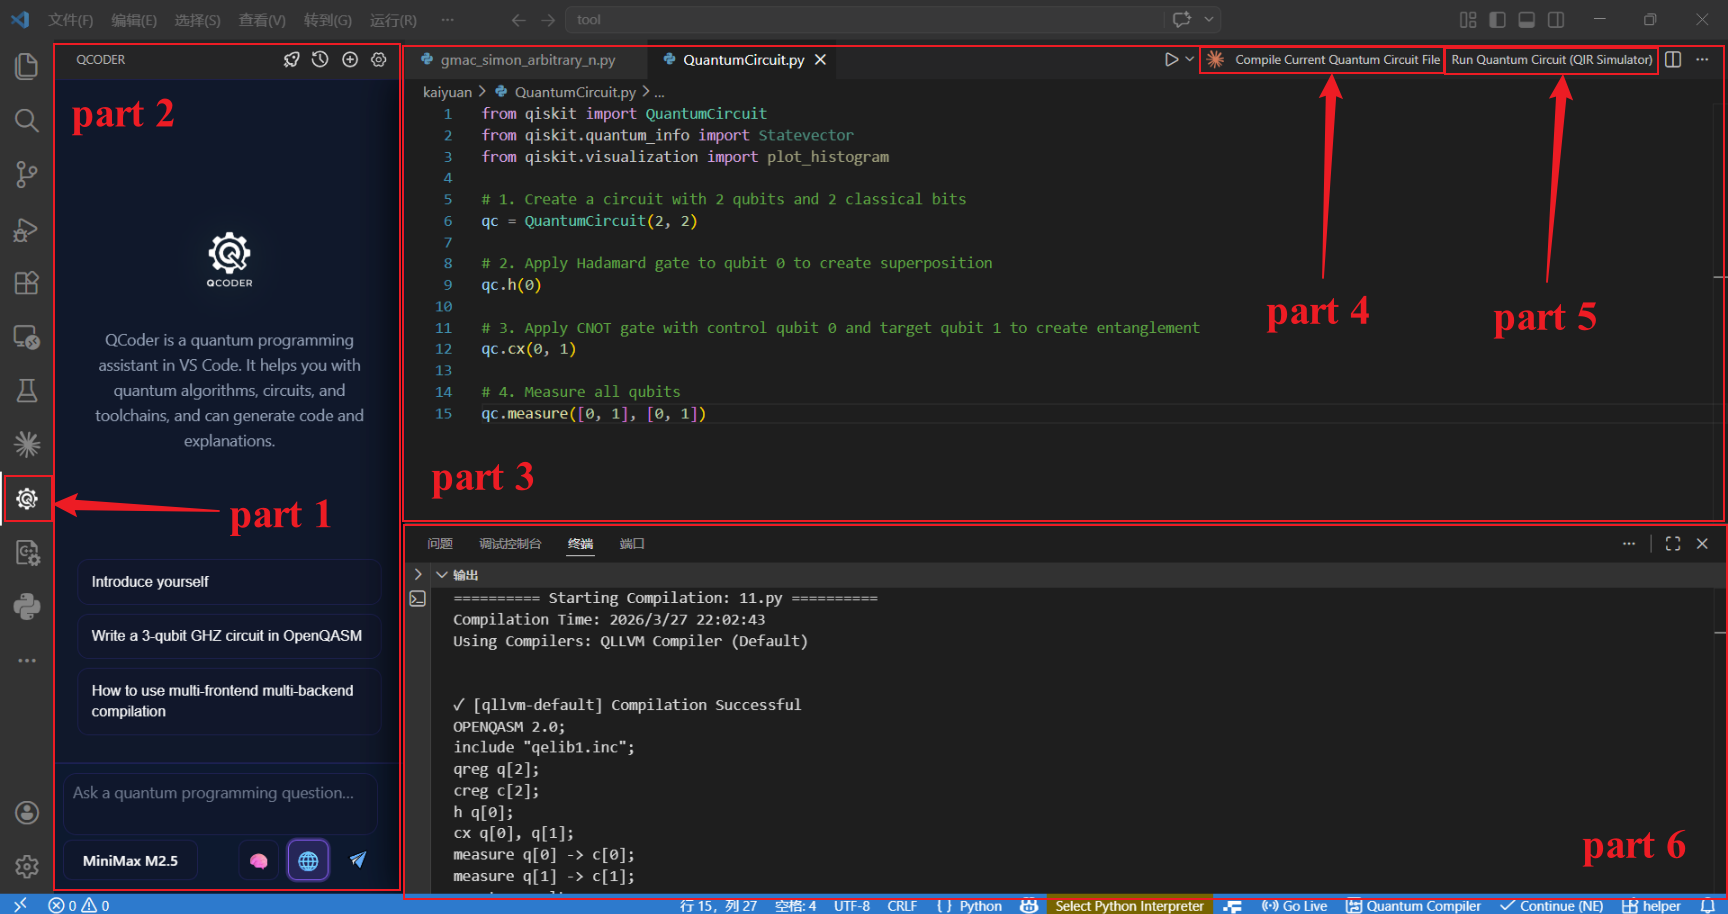
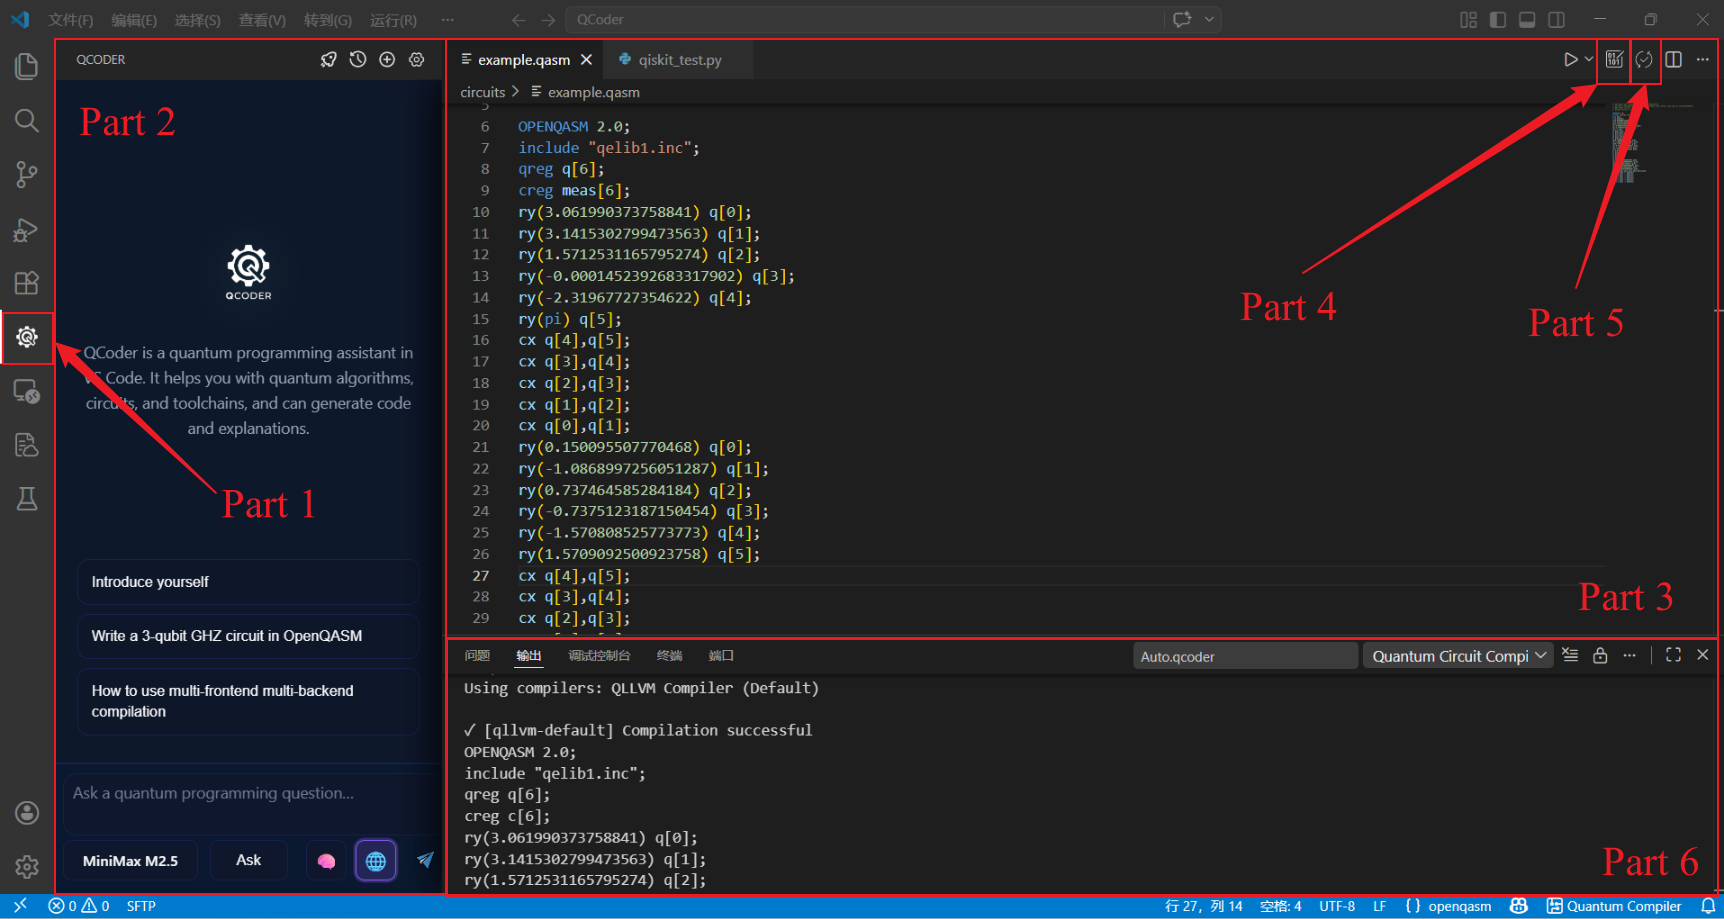
docs

diff --git a/docs/source/_templates/layout.html b/docs/source/_templates/layout.html
@@ -73,6 +73,10 @@
                 '可选依赖（按需安装）': 'Optional Dependencies (install as needed)',
                 'CUDA环境（仅C+++CUDA+QASM混合需要）': 'CUDA Environment (only needed for C+++CUDA+QASM hybrid)',
                 '故障排除': 'Troubleshooting',
+                '离子阱后端编译示例': 'Ion Trap Backend Compilation Example',
+                '编译器适配的量子物理体系': 'Quantum Physics Systems Supported by Compiler',
+                '超导量子计算机': 'Superconducting Quantum Computers',
+                '离子阱量子计算机': 'Ion Trap Quantum Computers',
                 '使用示例': 'Usage Examples',
                 '使用插件': 'Using Plugins',
                 'Quantum Circuit Composer': 'Quantum Circuit Composer',
@@ -136,6 +140,10 @@
                 'Optional Dependencies (install as needed)': 'optional-dependencies-install-as-needed',
                 'CUDA Environment (only needed for C+++CUDA+QASM hybrid)': 'cuda-environment-only-needed-for-c-cuda-qasm-hybrid',
                 'Troubleshooting': 'troubleshooting',
+                'Ion Trap Backend Compilation Example': 'ion-trap-backend',
+                'Quantum Physics Systems Supported by Compiler': 'quantum-physics-systems-supported-by-compiler',
+                'Superconducting Quantum Computers': 'i-superconducting-quantum-computers',
+                'Ion Trap Quantum Computers': 'ii-ion-trap-quantum-computers',
                 'Usage Examples': 'usage-examples',
                 'Using Plugins': 'using-plugins',
                 'Quantum Circuit Composer': 'quantum-circuit-composer',
@@ -258,6 +266,14 @@
                             if (!href.includes('.en.html')) {
                                 var newHref = href.replace('.html', '.en.html');
                                 link.setAttribute('href', newHref);
+                            } else if (href.includes('#')) {
+                                // 处理 .en.html 页面中的锚点映射
+                                var parts = href.split('#');
+                                var anchor = parts[1];
+                                // 如果锚点在anchorMap中，替换为正确的锚点
+                                if (anchorMap[text]) {
+                                    link.setAttribute('href', parts[0] + '#' + anchorMap[text]);
+                                }
                             }
                         }
                         // 处理页面内部的锚点链接

diff --git a/docs/source/usage.en.rst b/docs/source/usage.en.rst
@@ -332,6 +332,36 @@ Use `scripts/qir_runner_counts.py` to convert raw output to Qiskit-style `get_co
 
 `.bc` is standard LLVM bitcode, which can be loaded by tools like [qir-alliance/qir-runner](https://github.com/qir-alliance/qir-runner) (requires Python 3.9+).
 
+.. _ion-trap-backend:
+
+Ion Trap Backend Compilation Example
+"""""""""""""""""""""""""""""""""""
+
+The compiler supports compiling to QASM programs for ion trap backends. When specifying `-qpu` as `trappedion-qasm`, the output is a QASM program targeting Quantinuum.
+
+Compilation command:
+
+.. code-block:: bash
+
+    qllvm test.qasm -qrt nisq -qpu trappedion-qasm -O1
+
+Compiled quantum program example:
+
+.. code-block:: text
+
+    OPENQASM 2.0;
+    include "hqslib1.inc";
+    qreg q[2];
+    creg c[2];
+    U1q (-1*pi, 0.25*pi) q[0];
+    U1q (2*pi, 0.5*pi) q[0];
+    U1q ( 2.5*pi, 0.5*pi) q[1];
+    RZZ (0.5*pi) q[0], q[1];
+    U1q (0.5*pi, 0.0*pi) q[1];
+    measure q[0] -> c[0];
+    measure q[1] -> c[1];
+
+For detailed usage examples, refer to `https://github.com/QCFlow/QLLVM/test/Compilation_for_Ion_Trap_Backend.ipynb`
 
 .. _classical-quantum-hybrid-compilation:
 
@@ -593,3 +623,24 @@ If you only need QASM compilation functionality without XACC dependencies, you c
     make install
 
 This will only build the QASM frontend and related passes, without depending on XACC and its dependencies (antlr4, exprtk, etc.).
+
+.. _quantum-physics-systems:
+
+Quantum Physics Systems Supported by Compiler
+--------------------------------------------
+
+.. _superconducting-quantum-computers:
+
+I. Superconducting Quantum Computers
+~~~~~~~~~~~~~~~~~~~~~~~~~~~~~~~~~~~~
+
+1. Qasm simulator: ``-qpu qasm-backend``
+2. Origin Quantum Wukong: ``-qpu originquantum``
+3. CTG Tianyan: ``-qpu tianyan``
+
+.. _ion-trap-quantum-computers:
+
+II. Ion Trap Quantum Computers
+~~~~~~~~~~~~~~~~~~~~~~~~~~~~~~
+
+1. H-series simulator: ``-qpu trappedion-qasm``

diff --git a/docs/source/usage.rst b/docs/source/usage.rst
@@ -334,8 +334,38 @@ qir-runner 命令行参数
 
 `.bc` 为标准 LLVM 位码，可被 [qir-alliance/qir-runner](https://github.com/qir-alliance/qir-runner) 等工具加载（需 Python 3.9+）。
 
-.. _classical-quantum-hybrid-compilation:
+.. _ion-trap-backend:
 
+离子阱后端编译示例
+""""""""""""""""""""
+
+编译器支持编译生成面向离子阱后端的QASM程序。当指定 `-qpu` 为 `trappedion-qasm` 时，输出类型为面向Quantinuum的QASM程序。
+
+编译命令：
+
+.. code-block:: bash
+
+    qllvm test.qasm -qrt nisq -qpu trappedion-qasm -O1
+
+编译后量子程序示例：
+
+.. code-block:: text
+
+    OPENQASM 2.0;
+    include "hqslib1.inc";
+    qreg q[2];
+    creg c[2];
+    U1q (-1*pi, 0.25*pi) q[0];
+    U1q (2*pi, 0.5*pi) q[0];
+    U1q ( 2.5*pi, 0.5*pi) q[1];
+    RZZ (0.5*pi) q[0], q[1];
+    U1q (0.5*pi, 0.0*pi) q[1];
+    measure q[0] -> c[0];
+    measure q[1] -> c[1];
+
+具体使用实例可参考 `https://github.com/QCFlow/QLLVM/test/Compilation_for_Ion_Trap_Backend.ipynb`
+
+.. _classical-quantum-hybrid-compilation:
 
 编译经典-量子混合程序
 ^^^^^^^^^^^^^^^^^^^^^^^^
@@ -575,4 +605,19 @@ CMake 构建参数
      - 启用 QASM-only 独立构建
 
 .. _optional-dependencies-usage:
+
+编译器适配的量子物理体系
+------------------------
+
+一、超导量子计算机
+~~~~~~~~~~~~~~~~~~~~~~
+
+1. Qasm模拟器：``-qpu qasm-backend``
+2. 本源悟空量子计算机：``-qpu originquantum``
+3. 中电信天衍真机：``-qpu tianyan``
+
+二、离子阱量子计算机
+~~~~~~~~~~~~~~~~~~~~~~
+
+1. H-series模拟器：``-qpu trappedion-qasm``
 